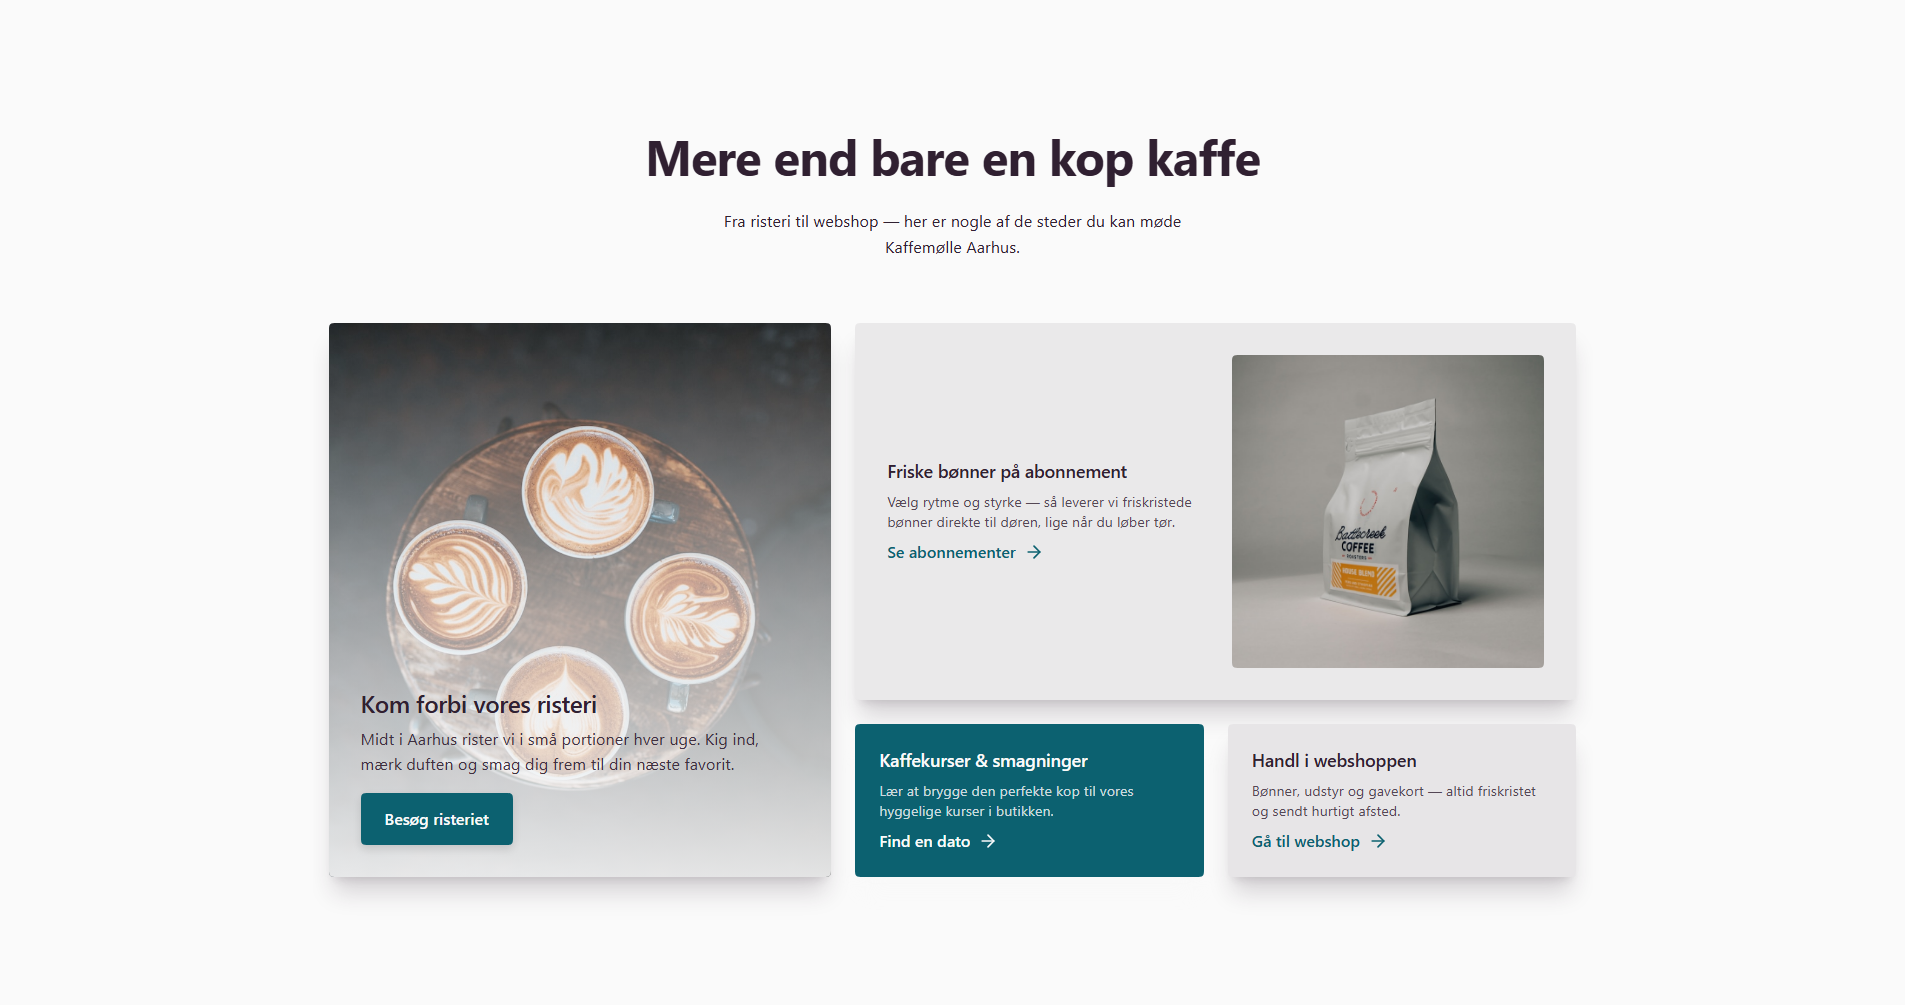
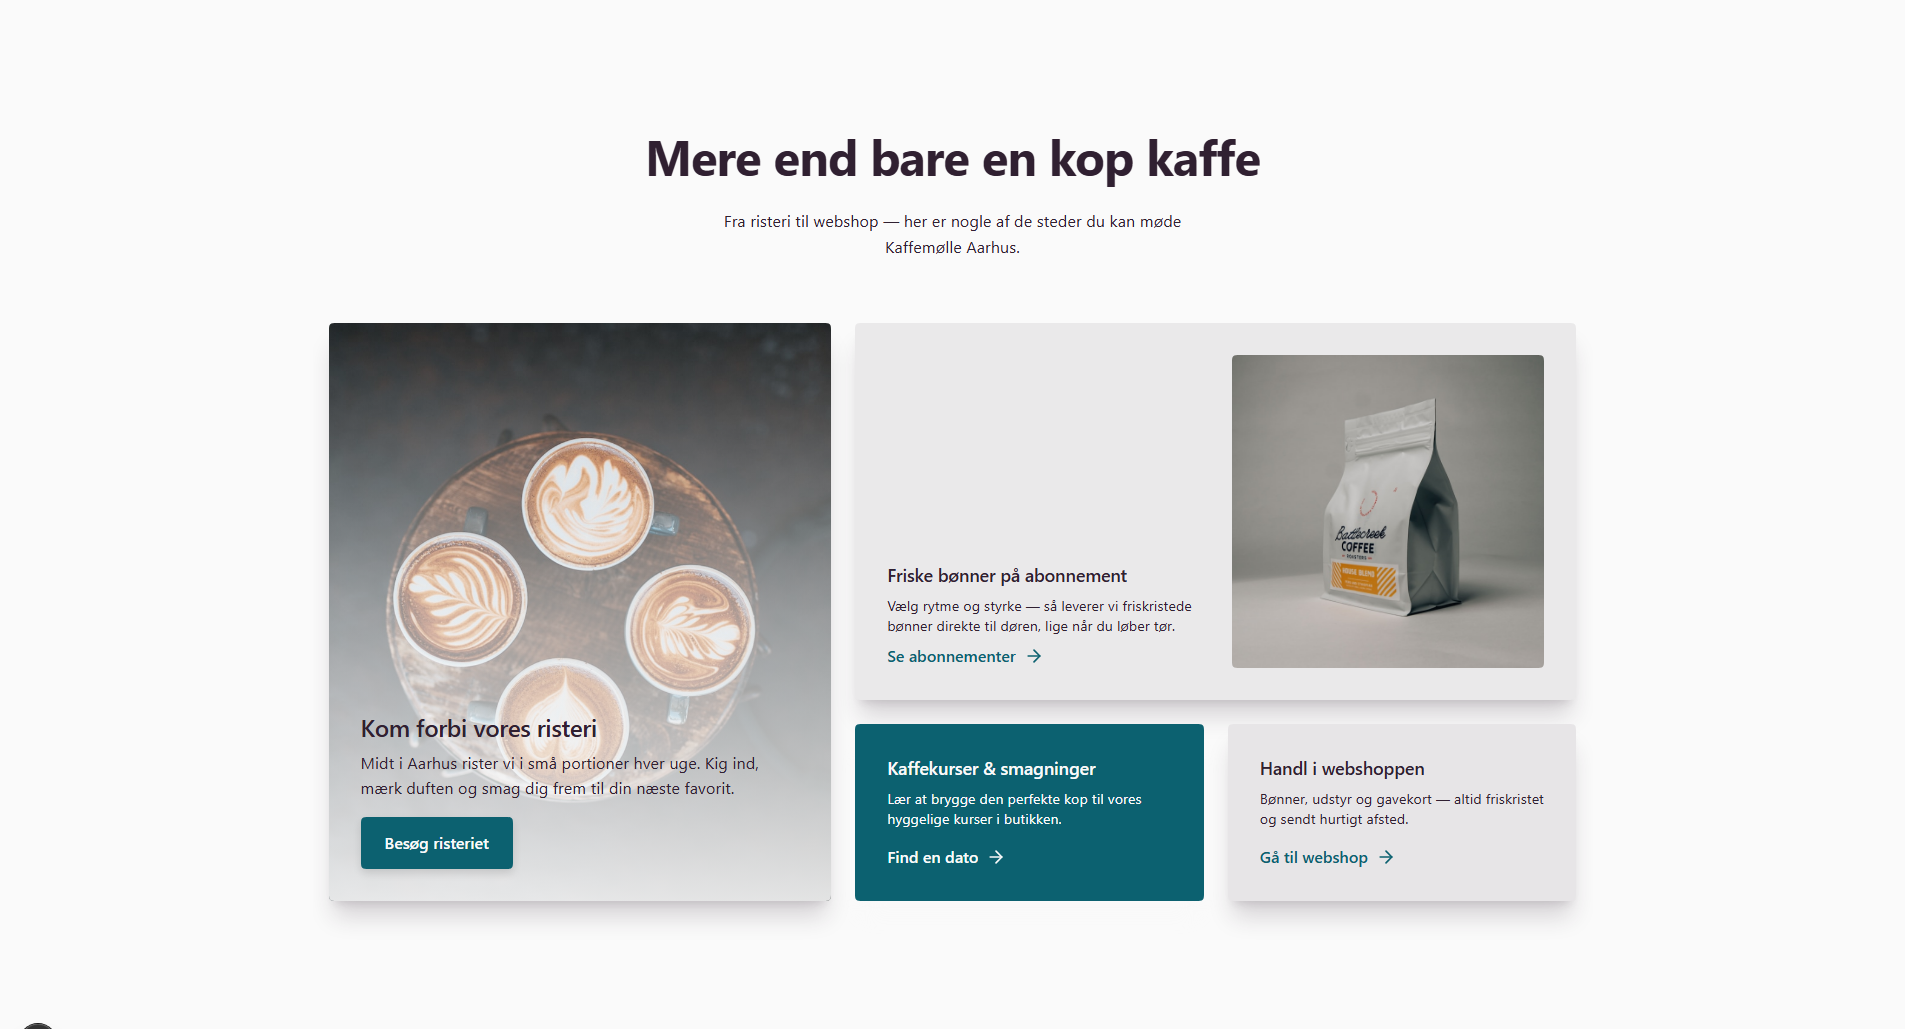
bento fixes

diff --git a/src/components/features/parts/FeaturesBentoLayout.tsx b/src/components/features/parts/FeaturesBentoLayout.tsx
@@ -12,6 +12,7 @@ import { EviSplit } from "@/src/components/layout/EviSplit";
 import { EviStack } from "@/src/components/layout/EviStack";
 import { EviAutoGrid } from "@/src/components/layout/EviAutoGrid";
 import { EviButton } from "@/src/components/ui/EviButton";
+import { EviCard } from "@/src/components/ui/EviCard";
 import { EviImage } from "@/src/components/ui/EviImage";
 import { EviRichText } from "@/src/components/typography/EviRichText";
 import { EviHeadingGroup } from "@/src/components/typography/EviHeadingGroup";
@@ -19,6 +20,7 @@ import {
   resolve_slice_context,
   type EviPageSliceContext,
 } from "@/src/lib/prismic/slices";
+import { cn } from "@/src/lib/utils/cn";
 
 export type FeaturesBentoLayoutProps = {
   slice: Content.SectionFeaturesSliceBento;
@@ -29,7 +31,7 @@ export type FeaturesBentoLayoutProps = {
 // Delt titel-/tekst-skala for tekst-kortene (2–4). Kasse 1 er større (feature).
 const CARD_TITLE =
   "[&_h3]:m-0 [&_h3]:text-lg [&_h3]:leading-snug [&_h3]:font-semibold";
-const CARD_BODY = "[&_p]:m-0 [&_p]:text-sm [&_p]:opacity-80";
+const CARD_BODY = "[&_p]:m-0 [&_p]:text-sm";
 
 // Uniform bento-gap på ALLE celle-mellemrum (primære kolonner, højre-kolonnens
 // to rækker, kasse 3|4) → ét sammenhængende gitter frem for et split med
@@ -42,13 +44,20 @@ const BENTO_GAP = "gap-4 md:gap-6";
 function CardLink({
   field,
   linkResolver,
+  className,
 }: {
   field: LinkField;
   linkResolver: LinkResolverFunction;
+  className?: string;
 }): React.ReactElement | null {
   if (!is_link_filled(field)) return null;
   return (
-    <EviButton asChild appearance="text" arrow className="w-fit">
+    <EviButton
+      asChild
+      appearance="text"
+      arrow
+      className={cn("w-fit", className)}
+    >
       <PrismicNextLink field={field} linkResolver={linkResolver}>
         {field.text}
       </PrismicNextLink>
@@ -56,7 +65,8 @@ function CardLink({
   );
 }
 
-// Tekst-kort-indhold (titel + tekst + link) — genbruges af kasse 2, 3 og 4.
+// Tekst-kort-indhold (titel + tekst + link) til kasse 2 — sidder ved siden af
+// et billede, så det er en simpel EviStack (ingen søskende at række-aligne med).
 function CardContent({
   title,
   body,
@@ -74,6 +84,51 @@ function CardContent({
       <EviRichText field={body} linkResolver={linkResolver} className={CARD_BODY} />
       <CardLink field={link} linkResolver={linkResolver} />
     </EviStack>
+  );
+}
+
+// Kasse 3 + 4: EviCard (grid-rows-subgrid) så titel/tekst/link-rækkerne aligner
+// på tværs af de to søster-kort. Faste 3 slots — tomme wrappes i <div /> så
+// subgrid-optællingen holder (jf. FeaturesCardsLayout).
+function BentoTextCard({
+  title,
+  body,
+  link,
+  linkResolver,
+  className,
+}: {
+  title: Content.SectionFeaturesSliceBentoPrimary["card_3_title"];
+  body: Content.SectionFeaturesSliceBentoPrimary["card_3_body"];
+  link: LinkField;
+  linkResolver: LinkResolverFunction;
+  className?: string;
+}): React.ReactElement {
+  return (
+    <EviCard rows={3} className={cn("rounded-evi p-6 shadow-evi md:p-8", className)}>
+      {isFilled.richText(title) ? (
+        <EviRichText
+          field={title}
+          linkResolver={linkResolver}
+          className={CARD_TITLE}
+        />
+      ) : (
+        <div />
+      )}
+      {isFilled.richText(body) ? (
+        <EviRichText
+          field={body}
+          linkResolver={linkResolver}
+          className={cn("mt-2", CARD_BODY)}
+        />
+      ) : (
+        <div />
+      )}
+      {is_link_filled(link) ? (
+        <CardLink field={link} linkResolver={linkResolver} className="mt-4" />
+      ) : (
+        <div />
+      )}
+    </EviCard>
   );
 }
 
@@ -165,7 +220,7 @@ export function FeaturesBentoLayout({
         <EviRichText
           field={p.card_1_body}
           linkResolver={linkResolver}
-          className="[&_p]:m-0 [&_p]:opacity-90"
+          className="[&_p]:m-0"
         />
         {is_link_filled(p.card_1_link) && (
           <EviButton asChild appearance="solid" className="mt-2 w-fit self-start">
@@ -183,7 +238,7 @@ export function FeaturesBentoLayout({
     <EviStack className={BENTO_GAP}>
       {card2Has && (
         <div className="theme-surface-neutral shadow-evi rounded-evi p-6 md:p-8">
-          <EviAutoGrid size="sm" className="items-center">
+          <EviAutoGrid size="duo" className="items-end">
             <CardContent
               title={p.card_2_title}
               body={p.card_2_body}
@@ -204,26 +259,24 @@ export function FeaturesBentoLayout({
       )}
 
       {(card3Has || card4Has) && (
-        <EviAutoGrid size="sm" className={BENTO_GAP}>
+        <EviAutoGrid size="duo" className={BENTO_GAP}>
           {card3Has && (
-            <div className="theme-primary shadow-evi rounded-evi p-6">
-              <CardContent
-                title={p.card_3_title}
-                body={p.card_3_body}
-                link={p.card_3_link}
-                linkResolver={linkResolver}
-              />
-            </div>
+            <BentoTextCard
+              title={p.card_3_title}
+              body={p.card_3_body}
+              link={p.card_3_link}
+              linkResolver={linkResolver}
+              className="theme-primary"
+            />
           )}
           {card4Has && (
-            <div className="theme-secondary-soft shadow-evi rounded-evi p-6">
-              <CardContent
-                title={p.card_4_title}
-                body={p.card_4_body}
-                link={p.card_4_link}
-                linkResolver={linkResolver}
-              />
-            </div>
+            <BentoTextCard
+              title={p.card_4_title}
+              body={p.card_4_body}
+              link={p.card_4_link}
+              linkResolver={linkResolver}
+              className="theme-secondary-soft"
+            />
           )}
         </EviAutoGrid>
       )}

diff --git a/src/components/layout/EviAutoGrid.tsx b/src/components/layout/EviAutoGrid.tsx
@@ -1,6 +1,6 @@
 import { cn } from "@/src/lib/utils/cn";
 
-type AutoGridSize = "sm" | "md" | "lg" | "trio" | "quad" | "fluid";
+type AutoGridSize = "sm" | "md" | "lg" | "duo" | "trio" | "quad" | "fluid";
 
 export type EviAutoGridProps = React.ComponentProps<"div"> & {
   /**
@@ -8,6 +8,8 @@ export type EviAutoGridProps = React.ComponentProps<"div"> & {
    * container-bredde.
    *
    * - "sm" / "md" / "lg" — fixed container-query breakpoints (250/320/400px min)
+   * - "duo" — 1 → 2 kolonner cappet ved 2 (aldrig 3+). To lige 50/50-kolonner der
+   *   altid fylder fuld bredde — til faste par (fx to bento-kort side om side).
    * - "trio" — 1 → 2 → 3 kolonner cappet ved 3 (aldrig 4). Rammer 3 allerede ved
    *   1024px, så kort-sektioner står i 3 på laptop-bredde OG på brede skærme.
    * - "quad" — 1 → 2 → 4 kolonner (springer 3 over), til fast 4-antal-layouts
@@ -28,6 +30,7 @@ const sizeClasses: Record<AutoGridSize, string> = {
   sm: "grid-cols-1 @[532px]/grid:grid-cols-2 @[814px]/grid:grid-cols-3 @[1096px]/grid:grid-cols-4 @[1660px]/grid:grid-cols-6",
   md: "grid-cols-1 @[672px]/grid:grid-cols-2 @[1024px]/grid:grid-cols-3 @[1376px]/grid:grid-cols-4",
   lg: "grid-cols-1 @[832px]/grid:grid-cols-2 @[1264px]/grid:grid-cols-3",
+  duo: "grid-cols-1 @[532px]/grid:grid-cols-2",
   trio: "grid-cols-1 @[672px]/grid:grid-cols-2 @[1024px]/grid:grid-cols-3",
   quad: "grid-cols-1 @[532px]/grid:grid-cols-2 @[1096px]/grid:grid-cols-4",
   fluid: "grid-cols-[repeat(auto-fit,minmax(180px,1fr))]",

diff --git a/CLAUDE.md b/CLAUDE.md
@@ -6,7 +6,8 @@ Vi har mange memories/skills/regler. Antag ALDRIG at du ved hvordan — vi har l
 
 ## Før ENHVER opgave
 - **Load `project_rulebook` memory** ved al kode/model/slice-arbejde.
-- **Check first**: grep/read/fetch FØR du skriver. Genbrug eksisterende Evi-komponenter (`feedback_check_first_reuse_always`).
+- **Check first**: grep/read/fetch FØR du skriver. **Før du bygger NOGET nyt (komponent/layout/helper): glob `src/components/{layout,ui,typography}` + `src/lib/` og gennemgå ALLE Evi-komponenter/helpers** — genbrug eller udvid frem for at lave nyt. (`feedback_check_first_reuse_always`)
+  - **Kort / række-alignede layouts = `EviCard`** (grid-rows-subgrid, aligner titel/tekst/knap på tværs af søster-kort). Jeg GLEMMER den gentagne gange (3×) — brug den til ALLE kort med flere ens søskende, ikke rå `<div>`-flader.
 - **Verificér live state** før du påstår noget (`feedback_verify_state_before_asserting`). **Konkludér aldrig en root cause før den er testet** (`feedback_dont_conclude_prematurely`).
 - **Next.js er IKKE training-data Next** — læs `node_modules/next/dist/docs/` før du skriver Next-kode.
 
